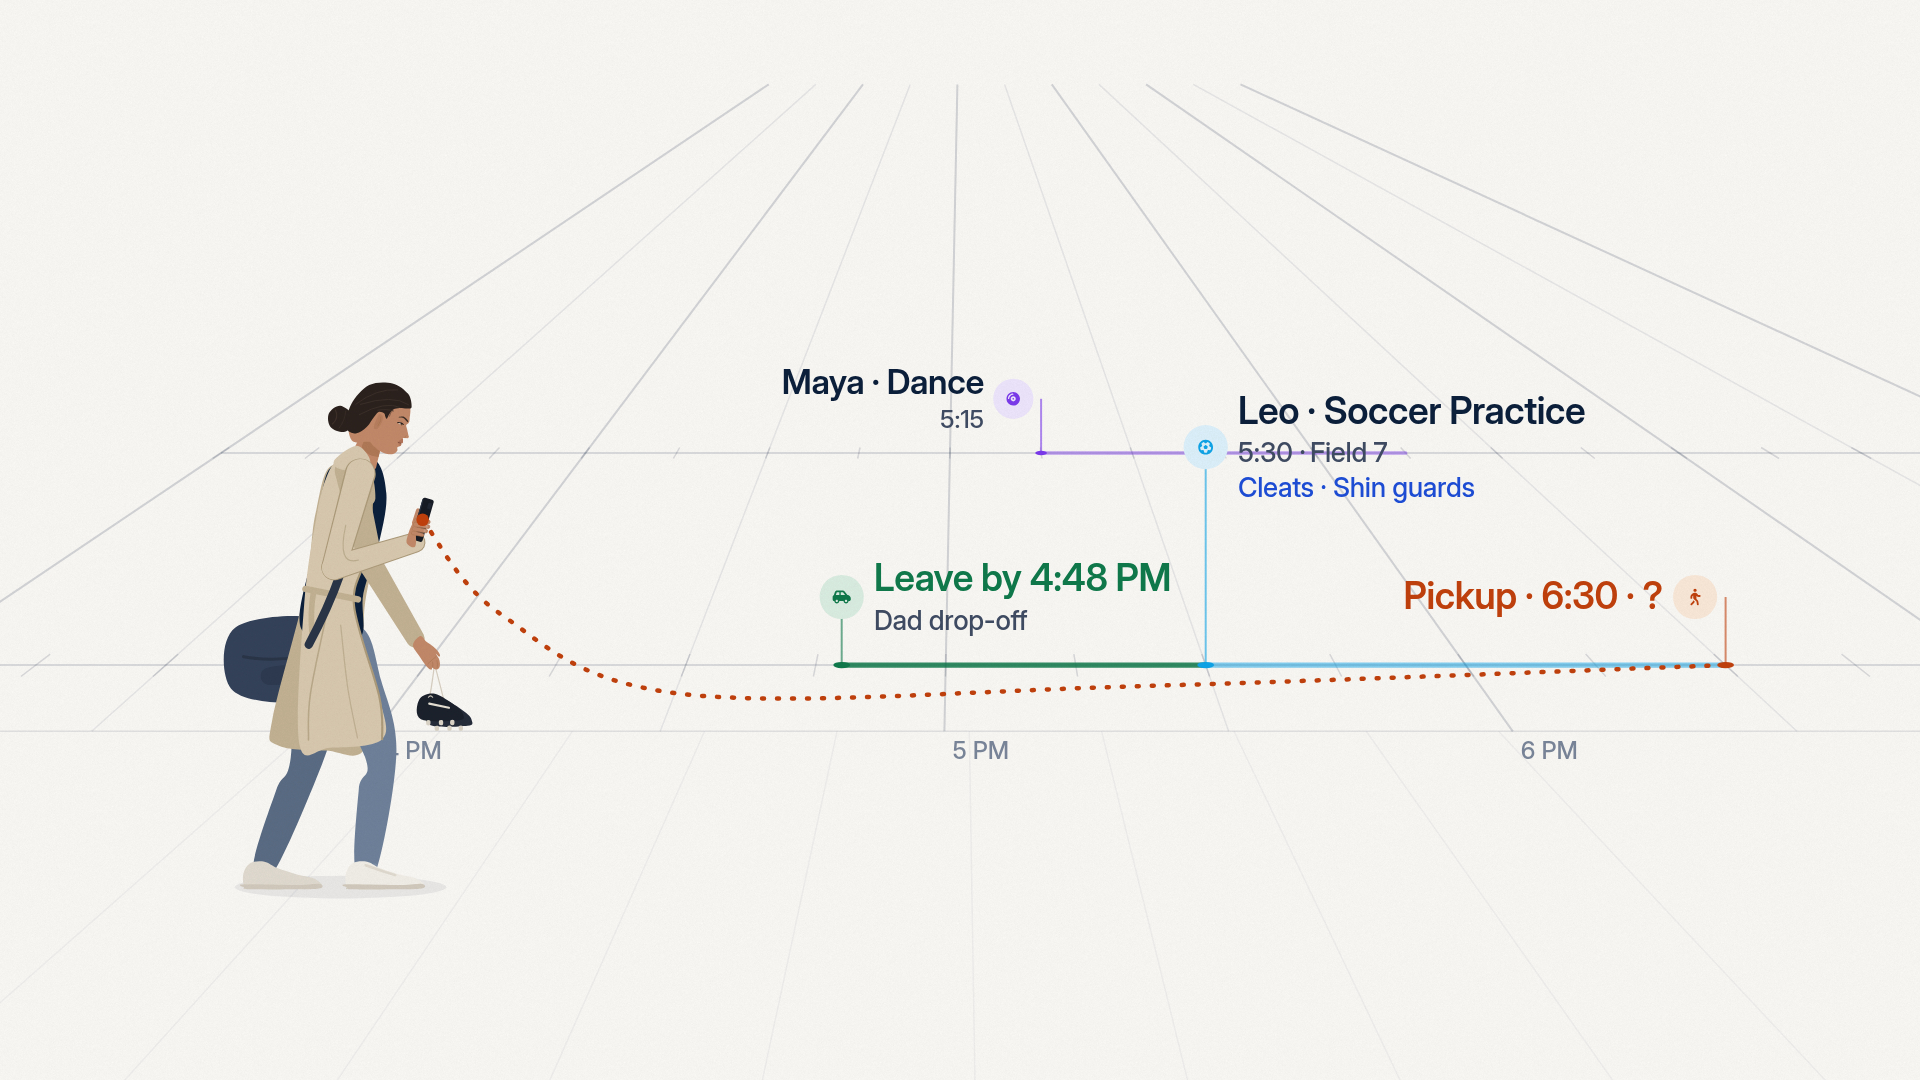
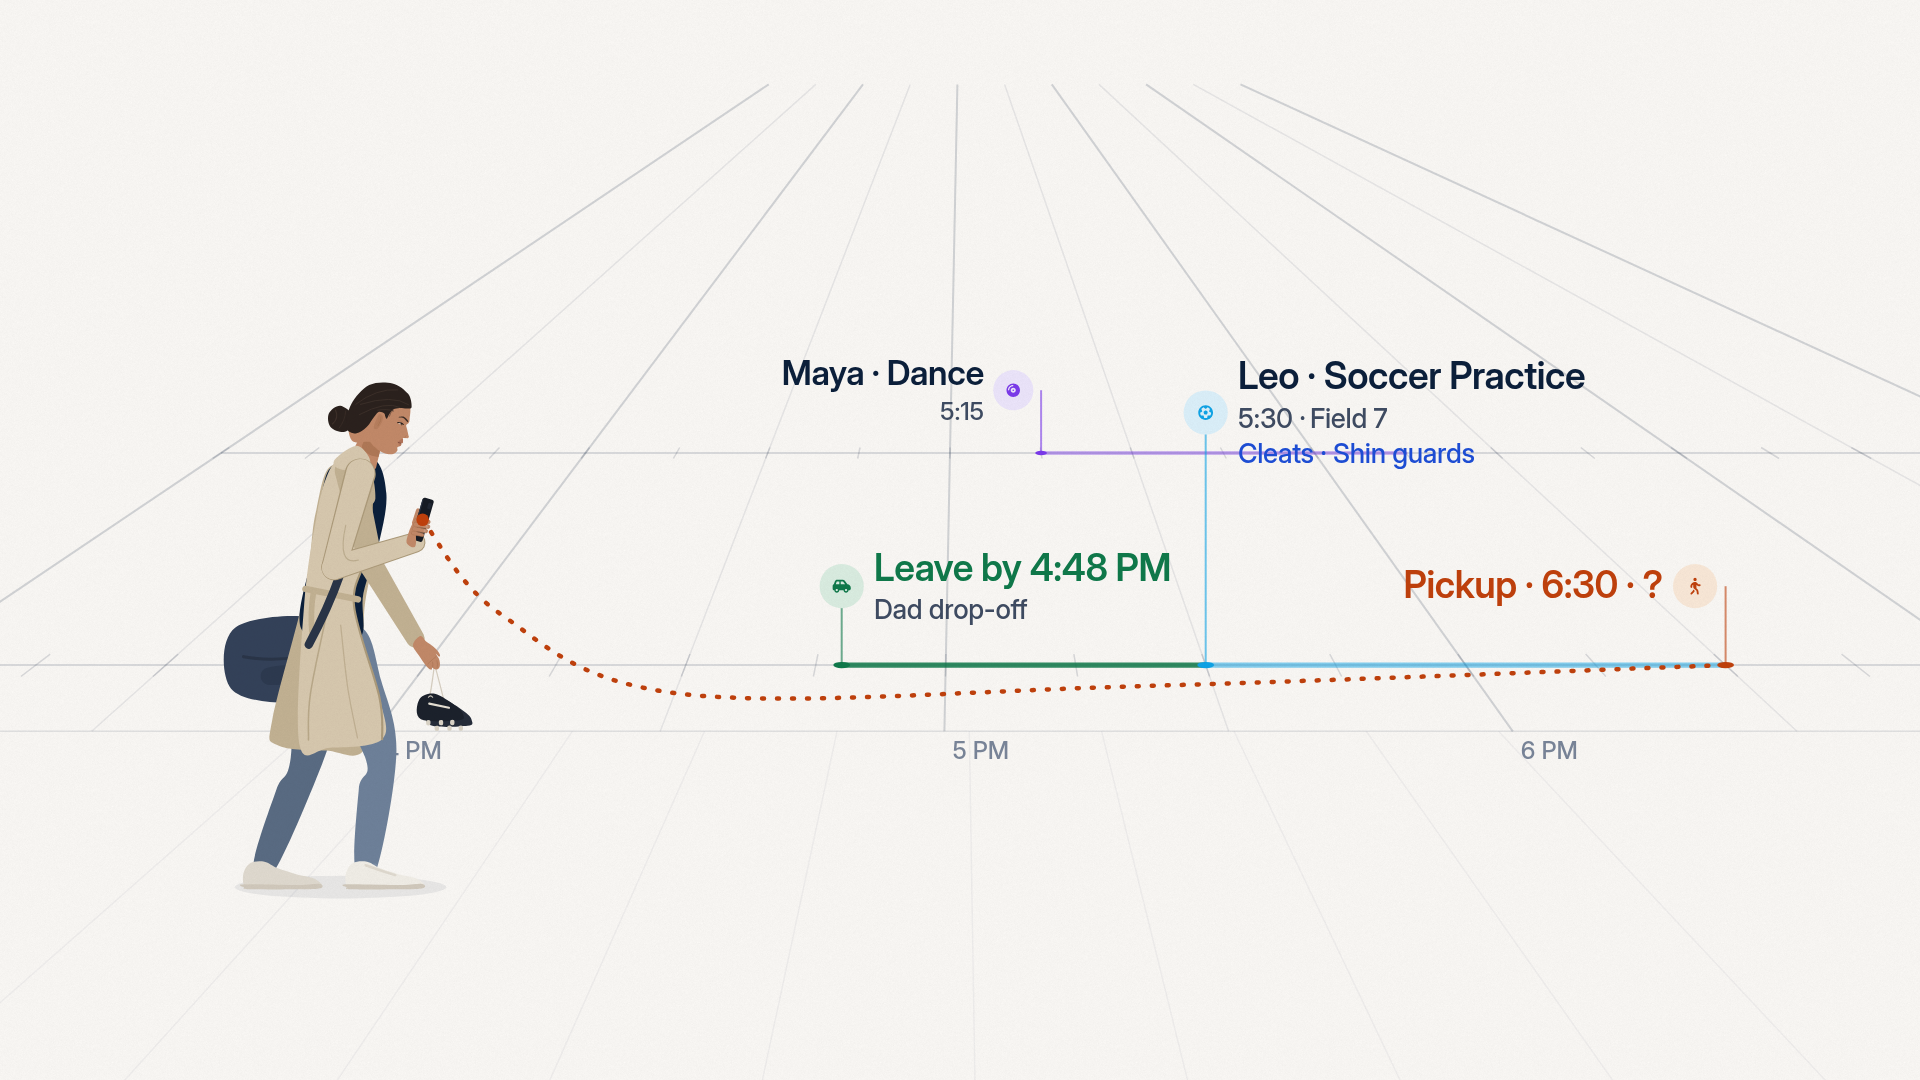
Film 02: lock CP3 after polish, deliver CP4 (20–26 s) for review
CP3 (12–20 s), LOCKED:
- What to bring: one "Cleats · Shin guards" at a time; it moves into the real row
- Long blue cleats arc removed; the row tints briefly to acknowledge the put-down
- Replacement 16:9 and 9:16 previews, contact sheets and stills

CP4 (20–26 s), for review:
- Overview to Game Plan › Assignments; Assign tapped on "No one on pickup"
- Grandma enters, catches the Pickup thread; row resolves to "Grandma pickup · At 6:30 PM"
- Thread settles into a neutral link; Dad's link follows his row; phone goes to pocket
- 16:9 and 9:16 previews, contact sheets, stills, REVIEW.md

diff --git a/film02/production/cp4/REVIEW.md b/film02/production/cp4/REVIEW.md
@@ -1,16 +1,42 @@
-# Film 02 · Checkpoint 4
+# Film 02 · Checkpoint 4: 20–26 s (the village)
 
 | | |
 |---|---|
 | **Checkpoint** | CP4 |
-| **Runtime covered** | Not started |
-| **Approval status** | Not started |
+| **Runtime covered** | 20.00–26.00 s (storyboard beats 17–21) |
+| **Approval status** | Pending review |
+
+## What happens
+| Time | Beat |
+|---|---|
+| 20.0–22.2 | The plan holds. Dad stands with the soccer bag; his neutral link stays on **Who's doing what · Dad drop-off**. Mom stands, posture already released twice (cleats, bag). |
+| 22.25 | Mom looks down at her phone. |
+| 22.6 | A press state on **Who's doing what** (Mom opens it). |
+| 22.75–23.45 | The overview gives way to the real **Game Plan › Assignments** view, strictly sequentially: the overview is fully gone before the new view starts. Shown: `Leo • Soccer Practice` · tabs `Assignments · Prep list · Ready Check` · `Assignments` + `Edit` · **Dad drop-off** [`Dad`] `Leave by 4:48 PM` · **No one on pickup** · `Assign` (attention orange). Dad's link follows his row. |
+| 23.0–23.5 | The orange thread's far end leaves 6:30 on the wall and attaches to **No one on pickup**: at the row's left edge in 16:9, beneath `Assign` in 9:16 (so it rises away from Mom's face). The `Pickup · 6:30 · ?` marker fades as its meaning moves into the row. |
+| 23.6 | A press state on **Assign** (Mom initiates). The caregiver picker is not shown, because it hasn't been captured from a real 3.0 build (storyboard §6 note 3). |
+| 23.4–25.0 | Grandma walks in from frame-left on a lane just in front of Mom's, passes in front of Dad and Mom, and stops between Mom and the plan. |
+| 24.55–25.15 | Grandma's open hand rises. The thread's origin passes from Mom's phone to Grandma's hand. |
+| 25.4 | **Resolved:** the row becomes **Grandma pickup** [`Grandma`] · `At 6:30 PM`, sequentially, never both rows at once. The orange dashed thread becomes the same neutral solid link used for Dad's drop-off. |
+| 25.5–26.0 | Mom releases a final notch of load and puts the phone in her pocket: free hands. |
 
 ## Files to review
-_None yet. Renders will go in `out/`._
+- `out/CP4_contact_16x9.png`: **16:9 contact sheet** (beats A–I)
+- `out/CP4_contact_9x16.png`: **9:16 contact sheet**
+- `out/stills/`: timed keyframes (`wide_<t>.png`, `tall_<t>.png`)
+- `out/beats4/`: one frame per beat for each format
+- Previews (Git LFS): `out/ACTIQO_WhatYouCarry_CP4_20-26s_16x9.mp4`, `out/ACTIQO_WhatYouCarry_CP4_20-26s_9x16.mp4`
+- Source: the shared timeline `../film/scene.mjs`, the Assignments view in `../lib/gameplan.mjs` (`asLayout`, `assignments`), and the scripts `render.mjs`, `stills.mjs`, `contact_cp4.mjs`
+
+## Deviations from the storyboard
+- **Beat 17, 20–23 s ("walk on"):** Mom stays standing; her release is shown through posture. Restarting a stopped walker isn't supported by the gait system yet, so her long-stride walk-on moves to CP5's payoff, where it's planned anyway.
+- **Dad stays in frame** with the bag, rather than exiting, so the end of CP4 shows the whole village: Dad, Mom and Grandma, each linked to their own Assignments row.
+- **Grandma enters from frame-left** rather than the right. In 16:9, a right-side entrance would cross the Game Plan rows at the moment they're read. From the left, she steps directly into the line of the pickup thread.
+- **Timing nudges:** the Assignments view arrives at 22.75–23.45 s (storyboard 23.0–23.8) and Assign is tapped at 23.6 s (storyboard 23.8), so the swap is fully sequential. The resolve stays at 25.4 s, as in the storyboard.
 
 ## Known nits
-_None yet._
+_None recorded yet._
 
 ## Decisions needed
-_None yet._
+1. Accept Grandma's frame-left entrance, or require the storyboard's right-side entrance?
+2. Should Dad and Grandma's neutral links persist into CP5, or fade at the payoff?

diff --git a/film02/production/cp3/REVIEW.md b/film02/production/cp3/REVIEW.md
@@ -4,7 +4,7 @@
 |---|---|
 | **Checkpoint** | CP3 |
 | **Runtime covered** | 12.00–20.00 s (the hero fold at 12.6–14.4 s, then the first put-downs) |
-| **Approval status** | Pending. No approval is recorded in this workspace. |
+| **Approval status** | **LOCKED** (2026-10-02). The concept was approved. The two polish notes below were applied and verified frame by frame, and the user's instruction was to lock CP3 once they were clean. |
 
 > **Location note.** The CP3 renders were produced in **`film02/production/film/out/`**, not in this folder. They were left in place rather than moved, so the paths below point there. The scene source is `film02/production/film/scene.mjs`.
 
@@ -20,8 +20,25 @@
 
 There are no dedicated close-up or zoomed stills of the hero fold. The fold is covered by the full-frame timed stills listed above.
 
+## Polish applied (v2, 2026-10-02)
+1. **What to bring registration (~16.0–16.75 s).** There is one copy of the text on every frame.
+   - The marker line hands off at the exact frame the flight leaves it.
+   - The flight takes a clean route: in 16:9 it drops beside the card, then slides along the row's own baseline, and no longer crosses "Dad drop-off". In 9:16 it's a short hop up.
+   - " · " becomes the product's ", " in flight.
+   - The real row copy appears at the landing frame. `0/2`, `Prep 0 of 2` and the row chevron wait until landing.
+2. **Cleats (~17.0–18.4 s).** The long blue dotted trajectory is removed.
+   - Mom lowers the cleats into the bag, and her posture releases.
+   - What to bring gives one soft tint acknowledgement as the cleats go in.
+   - No path is drawn from the cleats to the UI.
+
+**Unchanged:** the fold geometry, Game Plan scale and hierarchy, the orange Pickup thread (still unresolved), Maya receding, Dad's handoff timing, all product copy and data, and the character art.
+- **Lossless check:** comparing scene output with clip-path IDs normalized, frames 12.00–15.83 s are identical to the approved version.
+- **The only change before 16.0 s:** the What to bring chevron now appears at landing rather than at 15.85 s.
+
+**Note:** the previously committed timed stills for 13–15 s came from an earlier scene revision and did not match the approved MP4 (RMSE 0.073 at 13.2 s). The regenerated stills match the MP4.
+
 ## Known nits
-_Not recorded in the workspace. Add them during review._
+_None open._
 
 ## Decisions needed
-_Not recorded in the workspace. Add them during review._
+_None._
